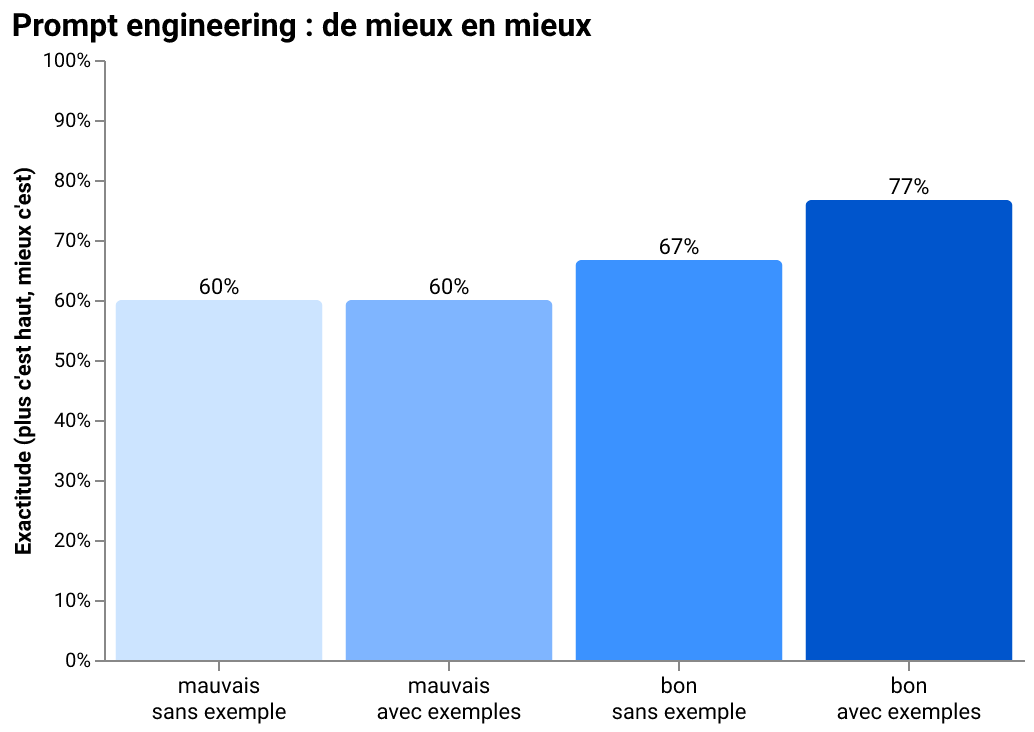
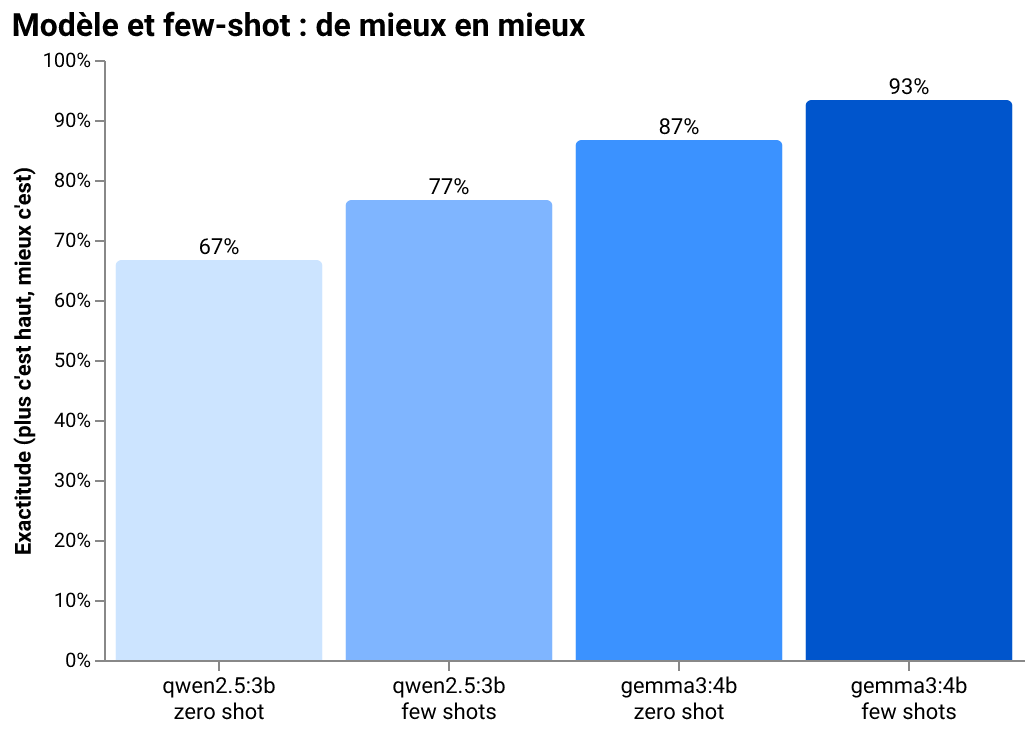
Reframe shootout figure as model × few-shot (qwen vs gemma3, zero/few-shot)
x-axis is now qwen2.5:3b vs gemma3:4b, each zero-shot/few-shot at a fixed prompt; accuracy 67->77->87->93 (the model buys the big jump, few-shot adds ~10 pts). Docs prose + ASSESSMENT aligned; README UI note updated to bilingual.

diff --git a/eval/violin.py b/eval/violin.py
@@ -67,41 +67,29 @@ _TEXT: dict[str, dict[str, str]] = {
     "fr": {
         "cv_title": "Exactitude par moteur (validation croisée 5 blocs)",
         "axis": "Exactitude (plus c'est haut, mieux c'est)",
-        "shoot_title": "Prompt engineering : de mieux en mieux",
+        "shoot_title": "Modèle et few-shot : de mieux en mieux",
     },
     "en": {
         "cv_title": "Accuracy by engine (5-fold cross-validation)",
         "axis": "Accuracy (higher is better)",
-        "shoot_title": "Prompt engineering: better and better",
+        "shoot_title": "Model and few-shot: better and better",
     },
 }
 
-# Bilingual, two-line labels for the four prompts of the 2×2 experiment, in
-# progression order. Line 1 = prompt quality (bad → good), line 2 = examples
-# (zero-shot → few-shot). The *bad* prompt is plain but not a strawman (a
-# reasonable task + schema); the *good* prompt adds error-driven disambiguation
-# rules and genuinely scores higher — which is exactly why the shootout presents
-# the model where "good" beats "bad" (:func:`eval.llm_shootout._pick_best_model`).
-_PROMPT_LABEL: dict[str, dict[str, str]] = {
-    "fr": {
-        "bad-zs": "mauvais\nsans exemple",
-        "bad-fs": "mauvais\navec exemples",
-        "good-zs": "bon\nsans exemple",
-        "good-fs": "bon\navec exemples",
-    },
-    "en": {
-        "bad-zs": "bad\nzero-shot",
-        "bad-fs": "bad\nfew-shot",
-        "good-zs": "good\nzero-shot",
-        "good-fs": "good\nfew-shot",
-    },
-}
-
-# The four prompts in the pedagogical progression order (x-axis order).
-_PROMPT_ORDER: list[str] = ["bad-zs", "bad-fs", "good-zs", "good-fs"]
+# The shootout figure is a 2×2: **model** (a weaker vs a stronger local model)
+# × **examples** (zero-shot vs few-shot). Prompt *quality* is held constant at
+# the engineered ("good") prompt so the two axes that vary are model and
+# examples. Reading left→right the accuracy climbs — a bigger model helps most,
+# few-shot adds a little on top. Models are ordered weak→strong.
+_SHOOT_MODELS: list[str] = ["qwen2.5:3b", "gemma3:4b"]
+# (internal prompt key at fixed quality, x-axis sub-label) — the examples axis.
+_SHOOT_EXAMPLES: list[tuple[str, str]] = [
+    ("good-zs", "zero shot"),
+    ("good-fs", "few shots"),
+]
 
 # A sequential blue ramp (light → deep sysblue) signalling "getting better"
-# across the four prompts — one hue deepening, not four unrelated colours.
+# across the four bars — one hue deepening, not four unrelated colours.
 _PROMPT_RAMP: list[str] = ["#CCE4FF", "#7FB5FF", "#3B92FF", "#0055CC"]
 
 # House-style base config shared by every chart (Roboto, no chart-junk).
@@ -202,14 +190,14 @@ def build_cv_spec(results: dict, lang: str) -> dict:
 
 
 def build_shootout_spec(results: dict, lang: str) -> dict:
-    """Build the prompt-engineering progression bar chart in ``lang``.
+    """Build the model × few-shot bar chart in ``lang``.
 
-    Shows the 2×2 experiment (bad/good prompt × zero/few-shot) for the *single*
-    model whose accuracy climbs the most cleanly across the four prompts (the
-    ``best_model`` chosen by the shootout). One model, four bars, left→right =
-    "de mieux en mieux". A bar chart (not a violin): the LLM is zero-shot, so
-    there is no cross-validation to show — one clear number per prompt is the
-    honest picture; sample size and caveats live in the surrounding text.
+    A 2×2: a weaker model (``qwen2.5:3b``) vs a stronger one (``gemma3:4b``),
+    each **zero-shot** and **few-shot**, at a fixed (engineered) prompt. Four
+    bars, left→right = "de mieux en mieux": the bigger model buys the large
+    jump, few-shot adds a little on top. A bar chart (not a violin): the LLM is
+    zero-shot, so there is no cross-validation to show — one clear number per
+    configuration is the honest picture; sample size lives in the text.
 
     Parameters
     ----------
@@ -224,23 +212,26 @@ def build_shootout_spec(results: dict, lang: str) -> dict:
         A Vega-Lite v5 bar-chart specification.
     """
     summary: dict[str, dict] = results.get("summary", {})
-    best_model: str = results.get("best_model", "")
-    # Index the winning model's four prompts by their internal key.
-    by_prompt: dict[str, float] = {
-        s.get("prompt", ""): s.get("point_accuracy", 0.0)
+    # Index every (model, prompt) accuracy.
+    acc: dict[tuple[str, str], float] = {
+        (s.get("model", ""), s.get("prompt", "")): s.get("point_accuracy", 0.0)
         for s in summary.values()
-        if s.get("model") == best_model
     }
     rows: list[dict[str, object]] = []
     order: list[str] = []
     colours: list[str] = []
-    for i, prompt in enumerate(_PROMPT_ORDER):
-        if prompt not in by_prompt:
-            continue
-        label = _PROMPT_LABEL[lang].get(prompt, prompt)
-        order.append(label)
-        colours.append(_PROMPT_RAMP[i % len(_PROMPT_RAMP)])
-        rows.append({"config": label, "accuracy": by_prompt[prompt]})
+    i = 0
+    # Bars in reading order: for each model (weak→strong), zero-shot then
+    # few-shot. Labels are two-line: model on top, examples below.
+    for model in _SHOOT_MODELS:
+        for prompt, ex_label in _SHOOT_EXAMPLES:
+            if (model, prompt) not in acc:
+                continue
+            label = f"{model}\n{ex_label}"
+            order.append(label)
+            colours.append(_PROMPT_RAMP[i % len(_PROMPT_RAMP)])
+            rows.append({"config": label, "accuracy": acc[(model, prompt)]})
+            i += 1
 
     return {
         "$schema": "https://vega.github.io/schema/vega-lite/v5.json",
@@ -266,8 +257,8 @@ def build_shootout_spec(results: dict, lang: str) -> dict:
                         "axis": {
                             "labelAngle": 0,
                             "labelFontSize": 11,
-                            # Split the two-line prompt label (quality / examples)
-                            # into stacked lines so the four labels never overlap.
+                            # Split the two-line label (model / examples) into
+                            # stacked lines so the four labels never overlap.
                             "labelExpr": "split(datum.value, '\\n')",
                         },
                     },

diff --git a/README.md b/README.md
@@ -21,9 +21,11 @@ history of NLP**, from bag-of-words to generative LLM:
 | 4 | **BERT** | contextual sentence embeddings (**SBERT**) | **PyTorch MLP** | Understands meaning; wins on paraphrases. Local. |
 | 5 | **LLM** | — (prompt) | **Gemma** via Ollama, **strict JSON** | Zero training, extracts slots. The slowest, the smartest. |
 
-> The UI is French because it is a French insurance assistant; the code,
-> docstrings and this README are English. A full French mirror lives in
-> [`LISEZMOI.md`](LISEZMOI.md).
+> The UI is **bilingual EN/FR** — a 🇬🇧/🇫🇷 flag toggle (top-right, next to a
+> light/dark button); the LLM is even prompted in the query's own detected
+> language. The *knowledge base* stays French (a French insurer's content). The
+> code, docstrings and this README are English; a full French mirror of this
+> page lives in [`LISEZMOI.md`](LISEZMOI.md).
 
 ## Why this project exists — the pedagogical goal
 
@@ -235,26 +237,23 @@ are *genuinely* different, not noise apart:
 > larger `gemma4:e4b` reaches ~93 % but at ~40 s/call (`INTENT_LLM_MODEL` swaps
 > it back). Heavier ≠ better — pick by need.
 
-### Does prompt engineering actually help? A 2×2 experiment
+### Bigger model, or a few examples? A 2×2 on the LLM
 
-The *representation* lesson above is about the **model**. This one is about the
-**prompt**. We cross two independent switches — prompt **quality** (a *bad*
-prompt: a plain-but-reasonable task + schema, not a strawman — vs a *good* one
-that adds error-driven disambiguation rules) and **examples** (zero-shot vs
-three worked few-shot examples, on *fresh* sentences never in the test set, so
-no leakage) — giving four prompts along one axis. We ran the full 2×2 on several
-local models and show the **single** one where the *good* prompt genuinely wins,
-climbing the most cleanly:
+The *representation* lesson above is about the classifier. This one is about the
+**LLM**, along two independent switches — the **model** (a small `qwen2.5:3b` vs
+the larger `gemma3:4b`) and the **examples** (zero-shot vs three worked few-shot
+examples, on *fresh* sentences never in the test set, so no leakage) — at a
+fixed, engineered prompt:
 
-![Prompt engineering: better and better](docs/img/shootout-en.png)
+![Model and few-shots: better and better](docs/img/shootout-en.png)
 
-> **Prompt work pays most when the model is weak.** On the small `qwen2.5:3b`,
-> the four prompts climb **60 → 60 → 67 → 77 %** — a +17-point lift from wording
-> and examples alone. On `gemma3:4b`, already ~90 %, the same effort barely
-> moves the needle (it is near its ceiling). The takeaway a practitioner
-> recognises: *before reaching for a bigger model, fix the prompt — but don't
-> expect miracles once the model is already strong.* (Held-out sample of 30;
-> predictions cached per config in `eval/.llm_shootout/`.)
+> **The model buys the big jump; few-shot adds a little on top.** Accuracy
+> climbs **67 → 77 → 87 → 93 %**: going from the small model to the larger one is
+> the +20-point move, and adding a handful of few-shot examples lifts each model
+> a further ~10 points. The practitioner's takeaway: *reach for a stronger model
+> first, then squeeze the last points with well-chosen examples — the few-shot
+> examples must be fresh, or you are just measuring leakage.* (Held-out sample of
+> 30; predictions cached per config in `eval/.llm_shootout/`.)
 
 ---
 

diff --git a/LISEZMOI.md b/LISEZMOI.md
@@ -235,28 +235,24 @@ chevauchent à peine : les moteurs sont *réellement* différents, pas du bruit 
 > mais à ~40 s/appel (`INTENT_LLM_MODEL` le rebranche). Plus lourd ≠ meilleur —
 > on choisit selon le besoin.
 
-### L'ingénierie de prompt, ça sert vraiment ? Une expérience 2×2
+### Un modèle plus gros, ou quelques exemples ? Un 2×2 sur le LLM
 
-La leçon *représentation* ci-dessus parle du **modèle**. Celle-ci parle du
-**prompt**. On croise deux réglages indépendants — la **qualité** du prompt (un
-prompt *mauvais* : une tâche + un schéma simples mais raisonnables, pas un
-épouvantail — vs un prompt *bon* qui ajoute des règles de désambiguïsation issues
-de l'analyse d'erreurs) et les **exemples** (zéro-shot vs trois exemples few-shot,
-sur des phrases **fraîches** hors jeu de test, donc sans tricher) — soit quatre
-prompts sur un seul axe. On lance le 2×2 complet sur plusieurs modèles locaux et
-on ne montre **que** celui où le prompt *bon* gagne vraiment, avec la montée la
-plus nette :
+La leçon *représentation* ci-dessus parle du classifieur. Celle-ci parle du
+**LLM**, selon deux réglages indépendants — le **modèle** (un petit `qwen2.5:3b`
+vs le plus gros `gemma3:4b`) et les **exemples** (zéro-shot vs trois exemples
+few-shot, sur des phrases **fraîches** hors jeu de test, donc sans tricher) — à
+prompt (soigné) constant :
 
-![Ingénierie de prompt : de mieux en mieux](docs/img/shootout-fr.png)
+![Modèle et "few shots" : de mieux en mieux](docs/img/shootout-fr.png)
 
-> **Soigner le prompt paie surtout quand le modèle est faible.** Sur le petit
-> `qwen2.5:3b`, les quatre prompts grimpent **60 → 60 → 67 → 77 %** — +17 points
-> par les mots et les exemples seuls. Sur `gemma3:4b`, déjà à ~90 %, le même
-> effort ne bouge presque rien (il est proche de son plafond). La morale qu'un(e)
-> praticien(ne) reconnaît : *avant de sortir un modèle plus gros, corrige le
-> prompt — mais n'attends pas de miracle quand le modèle est déjà fort.*
-> (Échantillon tenu à l'écart de 30 ; prédictions mises en cache par config dans
-> `eval/.llm_shootout/`.)
+> **Le modèle fait le grand saut ; le few-shot ajoute un petit plus.**
+> L'exactitude grimpe **67 → 77 → 87 → 93 %** : passer du petit modèle au plus
+> gros, c'est le bond de +20 points ; ajouter une poignée d'exemples few-shot
+> gagne ~10 points de plus sur chaque modèle. La morale qu'un(e) praticien(ne)
+> reconnaît : *prends d'abord un modèle plus fort, puis grappille les derniers
+> points avec des exemples bien choisis — encore faut-il qu'ils soient frais,
+> sinon on ne mesure que de la fuite.* (Échantillon tenu à l'écart de 30 ;
+> prédictions mises en cache par config dans `eval/.llm_shootout/`.)
 
 ---
 